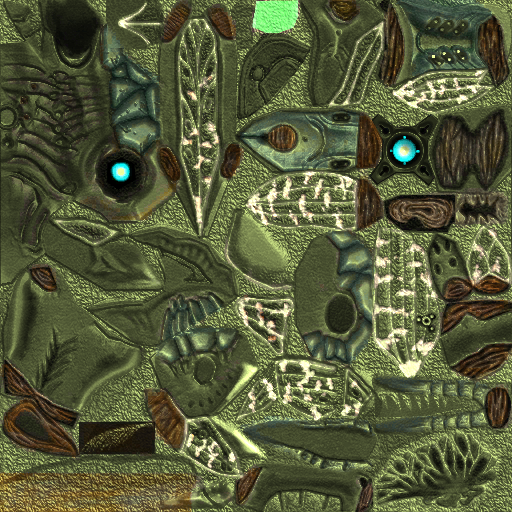
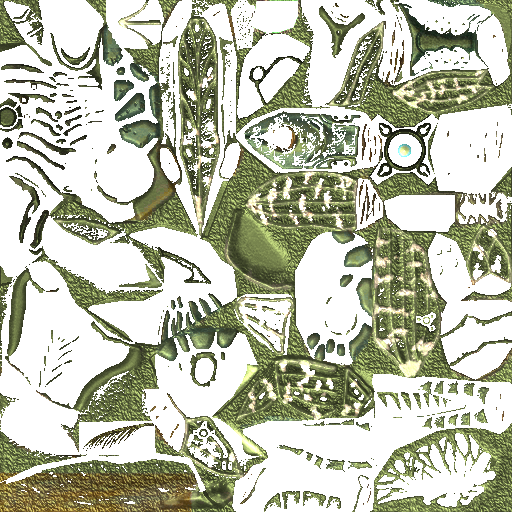
Drone antennae and Elite teeth cut out by their alpha
- extract_h2.py: the Drone antennae card keeps the bugger bitmap's alpha (alpha-tested), the colour still baked
- alpha_fix.py: Elite teeth take the CE 'elite teeth' bitmap's alpha and are two-sided; blood overlays masked to cut-out skins

Claude-Session: https://claude.ai/code/session_01Ja8vbkayn83DPTjJrhXLXZ

diff --git a/generator/alpha_fix.py b/generator/alpha_fix.py
@@ -1,0 +1,103 @@
+"""Alpha-tested teeth: the Elites' teeth cut out as Halo CE draws them -> out/models/<char>/
+
+    python3 alpha_fix.py [char ...]
+
+Halo CE draws its 'elite teeth' shader alpha-tested and two-sided: the teeth are
+cut out of a flat card by the bitmap's alpha, seen from both sides. extract_chars.py saves every skin as plain RGB, so
+the cards showed as solid rectangles. Here the teeth bitmaps (read from a Halo CE map) give their alpha, made crisp
+(UZDoom alpha-tests model skins), to the character's skin with the same picture, and the surfaces using that skin get
+their back faces. Re-running it changes nothing more. The blood-on-the-body textures over every cut-out skin (these, and the Drone's
+wings and antennae) are masked to the solid parts. Run after extract_chars.py, extract_h2.py and blood_kit.py.
+"""
+import os as _os, sys as _sys
+_sys.path.insert(0, _os.path.join(_os.path.dirname(_os.path.abspath(__file__)), 'lib'))   # readers and writers live in lib/
+import os, sys, json
+import numpy as np
+from PIL import Image
+HERE = os.path.dirname(os.path.abspath(__file__))
+sys.path.insert(0, HERE)
+from iqm import read_iqm, write_iqm
+try:
+    from extract_chars import OUT
+except Exception:
+    OUT = os.path.join(HERE, 'out')
+from hce_paths import MAPS_DIR as CE_MAPS     # Halo CE's maps (HCE_MAPS)
+CHARS = ('Elite', 'EliteSpecial', 'EliteRifle')
+TEETH = ('elite teeth',)
+
+
+def teeth_bitmaps():
+    from tags import HMap
+    from bitmaps import bitmap_image
+    from extract_chars import shader_maps
+    out = []
+    m = HMap(f'{CE_MAPS}/b30.map')
+    for t in m.tags:
+        if t['cls'] != 'soso' or not any(k in t['name'] for k in TEETH): continue
+        base, _, _ = shader_maps(m, {'id': t['id']})
+        im = bitmap_image(m, base) if base else None
+        if im is not None: out.append((t['name'], im.convert('RGBA')))
+    return out
+
+
+def main(chars):
+    bms = teeth_bitmaps()
+    for char in chars:
+        d = f'{OUT}/models/{char}'
+        if not os.path.isdir(d): continue
+        meta = json.load(open(f'{d}/{char}.json'))
+        fixed = []
+        for mat in sorted(set(meta.get('meshes', []))):
+            f = f'{d}/{mat}'
+            if not os.path.exists(f): continue
+            rgb = np.asarray(Image.open(f).convert('RGB')).astype(int)
+            for name, im in bms:
+                a = np.asarray(im)
+                if a.shape[:2] != rgb.shape[:2] or np.abs(a[..., :3].astype(int) - rgb).mean() > 2: continue
+                out = np.dstack([rgb.astype(np.uint8), np.where(a[..., 3] >= 128, 255, 0).astype(np.uint8)])
+                Image.fromarray(out, 'RGBA').save(f)
+                fixed.append(mat); break
+        if not fixed: print(char, 'no teeth skin'); continue
+        # two-sided: the back faces of the surfaces wearing it (once)
+        joints, meshes, anims = read_iqm(f'{d}/{char}.iqm')
+        n = 0
+        for m in meshes:
+            if m['material'] not in fixed: continue
+            t = m['tris']
+            back = t[:, [0, 2, 1]]
+            have = {tuple(sorted(x)) + (tuple(x),) for x in map(tuple, t)}
+            if any(tuple(sorted(x)) + (tuple(x),) in have for x in map(tuple, back)): continue      # already two-sided
+            m['tris'] = np.concatenate([t, back]); n += 1
+        if n:
+            alist = [dict(name=k, fps=30.0, loop=True, frames=[[(tuple(tt), tuple(q), tuple(s)) for tt, q, s in fr] for fr in anims[k]])
+                     for k in sorted(anims)]
+            meta['iqm_bytes'] = write_iqm(f'{d}/{char}.iqm', [(nm, p, tuple(tt), tuple(q), tuple(s)) for nm, p, tt, q, s in joints], meshes, alist)
+            json.dump(meta, open(f'{d}/{char}.json', 'w'), indent=1)
+        print(char, 'teeth skin', fixed, 'two-sided surfaces', n)
+
+
+def mask_blood(char):
+    """blood on the body (blood_kit.py) over a cut-out skin: only where the skin is solid (the Elite's teeth, the
+    Drone's wings and antennae), not on the card around it"""
+    d = f'{OUT}/models/{char}'
+    if not os.path.isdir(d): return
+    n = 0
+    for f in sorted(os.listdir(d)):
+        if not (f.startswith(char + '_') and f.endswith('.png')) or 'multi' in f: continue
+        im = Image.open(f'{d}/{f}')
+        if im.mode != 'RGBA': continue
+        a = np.asarray(im)[..., 3]
+        if a.min() == 255: continue
+        for k in (1, 2, 3):
+            bf = f'{d}/blood{k}_{f}'
+            if not os.path.exists(bf): continue
+            b = np.asarray(Image.open(bf).convert('RGBA')).copy()
+            m = np.asarray(Image.fromarray(a).resize(b.shape[1::-1], Image.NEAREST)) >= 128
+            b[..., 3] = np.where(m, b[..., 3], 0)
+            Image.fromarray(b, 'RGBA').save(bf); n += 1
+    if n: print(char, 'blood masked on', n, 'textures')
+
+
+if __name__ == '__main__':
+    main(sys.argv[1:] or CHARS)
+    for c in (sys.argv[1:] or CHARS) + ('Drone',): mask_blood(c)

diff --git a/generator/extract_h2.py b/generator/extract_h2.py
@@ -118,7 +118,11 @@ def drone_texture(m, kind):
     src = {'wings': 'bugger_wings'}.get(kind, 'bugger')
     im = mcc_bitmap(m, r'objects\characters\bugger\bitmaps' + '\\' + src, TEXTURES)
     if src == 'bugger':                  # alpha is a specular mask there: bake the shader's look into the colour
+        raw = im
         im = bake_bugger(im, mcc_bitmap(m, r'objects\characters\bugger\bitmaps\bugger_bump', TEXTURES))
+        if kind == 'antennae':           # ...except on the antennae's card, where the shader cuts the feathery antenna
+            a = np.asarray(raw.convert('RGBA'))[..., 3]   # out of it with that alpha (alpha-tested in UZDoom)
+            im = Image.fromarray(np.dstack([np.asarray(im.convert('RGB')), np.where(a >= 128, 255, 0).astype(np.uint8)]), 'RGBA')
     return im
 
 def drone_textures(pid='Drone'):

diff --git a/docs/PACK_README.md b/docs/PACK_README.md
@@ -531,7 +531,7 @@ uzdoom -file HDE_LocalDEV.pk3 HCE_EnemyAPI_LocalDEV.pk3 HaloCE_Core.pk3 HaloCE_C
 | `HCE_Drinol` | Map-placeable only (DoomEdNum 30400); it no longer replaces any Doom monster. Digsite's war beast (model, 76 animations and stats from its tags). Melee charger that swats and pounces with its `charging_jump`. In Halo it stands about 160 map units tall, so it is shrunk to 62% (99 tall, radius 34) to fit Doom corridors; health 320. Uses the new Drinol sounds from the voice pack: alert, melee, grave injury, death, extreme death, and sonic roar on the boss's charge. |
 | `HCE_BossCyberdemonDrinol` | **Boss: replaces every Cyberdemon** while the add-on is loaded. A bigger Drinol (78% scale, 110 tall, radius 40, health 1800) with three attacks. Its swats (~65) are slower than the small Drinol's. Its **charge** is a 22-speed stampede that steers a few degrees per tic, so you can side-step it; a hit does ~55 and bowls you over, and running into a wall staggers it. When it lands from a pounce it **slams** out a 260-unit shockwave that hurts and knocks back its enemies but spares its allies; jumping avoids it. It maps back to `Cyberdemon` (`CheckReplacee`), so boss-death map specials still fire. |
 | `HCE_Brute{Minor,Major,Captain,HonorGuard,Chieftain}…` | **Halo 2's Brutes**, ripped from MCC's `08b_deltacontrol.map` (voices from `08a_deltacliffs.map`): one 48-bone model with every rank's armour, 73 animations (including Tartarus's gravity-hammer stance), real textures, both voices (bloodthirsty and cruel) and their footsteps, thumps and body falls.<br>• **Ranks and loadouts** (looks from Halo 2's model variants, health from the rank tags; all hold their own guns in the rifle stance; a human gun they pick up goes in the rifle stance or, for the GPMG and flamethrower, Halo 2's Brute Shot stance):<br>&nbsp;&nbsp;– **Minor**: 175 health, olive fur, light armour (blue Halo 3 pieces, Halo 2's own helmet and shoulder plates, light King Hit pieces, sometimes bare-headed). Carries the **CE plasma rifle** (`HCE_BruteMinorPlasmaRifle`) or the **CE assault rifle** (`HCE_BruteMinorAssaultRifle`).<br>&nbsp;&nbsp;– **Major**: 150 health, reddish fur, medium armour (red Halo 3 pieces, King Hit crested and enclosed helmets; one in five wears the Halo 3 jump-pack suit). Carries the **Spiker** (`HCE_BruteMajorSpiker`), which fires HDE's own spikes in automatic bursts and drops HDE's Spiker, or the **CE shotgun** (`HCE_BruteMajorShotgun`), 15 pellets a shot.<br>&nbsp;&nbsp;– **Captain**: 200 health, grey fur, the flag pack and heavy armour (gold Halo 3 pieces, King Hit bighorn, heavy and chain-mail helmets, heavy chest plates and leg armour). Carries the CE plasma rifle, the CE shotgun or the **Plasma Caster** (`HCE_BruteCaptainPlasmaCaster`, 30453): HaloDoom Evolved's own (Halo Infinite's), reinterpreted as a low-poly Halo CE Covenant gun in flat colours (a muted dark purple housing and front pod, a dark gunmetal receiver, grip, stock and drum, a silver cone in the pod, cyan lights and a red Banished glyph), lobbing HDE's Plasma Caster shots with a charged three-shot cluster, and dropping HDE's Plasma Caster.<br>&nbsp;&nbsp;– **Honor Guard**: 150 health (Halo 2's Honor Guard inherits the Major's stats), the red ceremonial armour. Carries the CE plasma rifle or the CE assault rifle.<br>&nbsp;&nbsp;Each gun is the real model in the Brute's hand: the CE weapons and the Spiker (a community CE port of Halo 3's). Each drops its HDE pickup.<br>• **Brute Chieftain** (`HCE_BruteChieftainGravityHammer`), a custom rank:<br>&nbsp;&nbsp;– **Look:** half of them wear Tartarus's crested white mohawk and helmet, his grey fur and gold armour, and the elite-skull trophy pauldron. The rest wear one of two kit sets: the Halo 3 Chieftain suit (bronze) or the orange-trimmed King Hit chieftain helmet, leg and bracer set.<br>&nbsp;&nbsp;– **Weapon and animations:** Halo 2's gravity hammer, held two-handed with Tartarus's own hammer animations (idles, moves, three swings, two side smashes, leap, berserk hammer run and swings).<br>&nbsp;&nbsp;– **Stats:** 350 health and a 150-point shield (Tartarus's 1000-point overshield, cut down so it can be broken). It is melee only, with no grenades.<br>&nbsp;&nbsp;– **Attacks:** it leaps at targets 150–400 units away at Tartarus's 50% leap chance. Every hammer swing (about 70) and every leap landing sets off a **gravity shockwave**: HDE's hammer blast effect, 10–35 damage within 150 units, knocking things back and sparing other Covenant. It keeps the hammer when berserk and drops HDE's gravity hammer when killed.<br>• **Combat:** strafing, dives and evades, plasma grenades (10% a second, 3–20 unit range, 6 s apart, carrying 1–2, all from the tag), heavy melee (about 35), cheer, taunt and point animations.<br>• **Berserk:** when badly hurt, or when its pack is wiped out (the last Brute nearby always goes, others 35% of the time), it roars and thumps its chest, **throws its gun away** (the pickup lands nearby), then charges on all fours with five swings and two tackles.<br>• **Armour kit:** every Minor, Major and Captain rolls its own armour when it spawns, one piece (or nothing) per slot: helmet, chest, shoulders, arms, legs and waist. The pieces come from the h2_brute armour set: the King Hit pieces (four material tiers), Halo 3-style pieces tinted per rank, and Halo 2's own helmet, shoulder plates and bandolier. 48 pieces in all, each drawn as a model attachment that moves with the Brute's bones.<br>• **Helmets:** a headshot knocks a Minor's, Major's or Captain's helmet off, whichever helmet it wears, and it bounces away as debris. A Brute that spawned bare-headed can be headshot from the first hit. Honor Guard and Chieftain helmets stay on.<br>Scaled to 115%, so a Brute towers a head and more over an Elite (its rifle idle is 0.90 world units at full size against the Elite's 0.80), and moves a little faster to match its stride; collision 76 tall, radius 30, so they still fit Doom doors. DoomEdNums 30422–30430, `HCE_RandomBrute` 30431, the Plasma Caster Captain 30453. |
-| `HCE_DronePlasmaPistol` | **Halo 2's Drone** (Yanme'e), ripped from MCC's `01b_spacestation.map` (Cairo Station): model, 32-bone skeleton, 36 animations (flight idle and four-way flight, wall perching, take-off/landing, fire, flinches, falling deaths) its real textures (from MCC's `textures.dat`, with the Drone shader's look baked in: the bump map's relief, the olive-green shell and its glossy olive-gold sheen, see-through wings) and 219 sounds: 149 dialogue lines from `sounds_en.dat`, plus its wing buzz, wing whooshes, wall-cling, claw and body-fall effects from `sounds_neutral.dat` (Halo 2 MCC stores them as raw Opus; the tools wrap them as Ogg). It holds a one-handed Covenant gun in its claw (see below), has 30 health and no shield (from its Halo 2 character tag), and is 48 tall with radius 22. Behaviour:<br>• **Darting flight:** swarm-style zig-zags above its target at changing heights, firing plasma pistol bursts.<br>• **Dodges:** when hit there's a 50% chance it darts sideways, at most every 4 s (its tag's evasion values).<br>• **Wall perching:** it flies to a nearby wall and clings with its back to it, firing from there (3–6 s in combat, 8–20 s when idle), and leaves early if you get within 96 units.<br>• **Swarm scatter:** when a drone dies, others within 400 units scatter in panic.<br>• **Falling death:** it falls out of the air and lands dead.<br>• **Sounds:** its wings buzz while it flies, it whooshes on dodges and darts, clicks when it grabs a wall, and thuds when it lands dead.<br>**Weapons:** the plasma pistol (`HCE_DronePlasmaPistol`, 30420), the **needler** (`HCE_DroneNeedler`, 30438), the CE **plasma rifle** (`HCE_DronePlasmaRifle`, 30439) and the **Spiker** (`HCE_DroneSpiker`, 30440), each dropping its HDE pickup. Cacodemons and Lost Souls become a mix of all four, mostly pistols and needlers; `HCE_RandomDrone` (30421) picks any. |
+| `HCE_DronePlasmaPistol` | **Halo 2's Drone** (Yanme'e), ripped from MCC's `01b_spacestation.map` (Cairo Station): model, 32-bone skeleton, 36 animations (flight idle and four-way flight, wall perching, take-off/landing, fire, flinches, falling deaths) its real textures (from MCC's `textures.dat`, with the Drone shader's look baked in: the bump map's relief, the olive-green shell and its glossy olive-gold sheen, see-through wings) and 219 sounds: 149 dialogue lines from `sounds_en.dat`, plus its wing buzz, wing whooshes, wall-cling, claw and body-fall effects from `sounds_neutral.dat` (Halo 2 MCC stores them as raw Opus; the tools wrap them as Ogg). It holds a one-handed Covenant gun in its claw (see below), has 30 health and no shield (from its Halo 2 character tag), and is 48 tall with radius 22. Behaviour:<br>• **Darting flight:** swarm-style zig-zags above its target at changing heights, firing plasma pistol bursts.<br>• **Dodges:** when hit there's a 50% chance it darts sideways, at most every 4 s (its tag's evasion values).<br>• **Wall perching:** it flies to a nearby wall and clings with its back to it, firing from there (3–6 s in combat, 8–20 s when idle), and leaves early if you get within 96 units.<br>• **Swarm scatter:** when a drone dies, others within 400 units scatter in panic.<br>• **Falling death:** it falls out of the air and lands dead.<br>• **Sounds:** its wings buzz while it flies, it whooshes on dodges and darts, clicks when it grabs a wall, and thuds when it lands dead.<br>**Weapons:** the plasma pistol (`HCE_DronePlasmaPistol`, 30420), the **needler** (`HCE_DroneNeedler`, 30438), the CE **plasma rifle** (`HCE_DronePlasmaRifle`, 30439) and the **Spiker** (`HCE_DroneSpiker`, 30440), each dropping its HDE pickup. Cacodemons and Lost Souls become a mix of all four, mostly pistols and needlers; `HCE_RandomDrone` (30421) picks any. The antennae are cut out of their card by the shader's alpha, as Halo 2 draws them. |
 | `HCE_Engineer` | The Engineer from Halo CE Ruby's Rebalance, extracted from SPV3's b30 map (model, texture, 25 animations, health, dialogue). **Replaces every Pain Elemental** while the add-on is loaded; without it, Pain Elementals become Flood Carriers if the Flood pack is loaded. It carries **no weapon and never fights**: it treats nothing as an enemy, even whoever shoots it, and just drifts around, sometimes pausing in mid-air. It's a support unit rather than a combatant.<br>• **Overshields (Halo 3's Engineer ability):** every second it overshields the allies within 420 units that are fighting and in its sight, with a pink tether to each.<br>&nbsp;&nbsp;– Shielded allies are topped up 20% of their maximum a second, up to 1.5× their maximum.<br>&nbsp;&nbsp;– Unshielded allies (Grunts, Jackals, Hunters) get a small 40-point shield of their own (scaled by `hce_nerf_shields`).<br>&nbsp;&nbsp;– Out of its reach for 4 s, or when it dies, the gift goes away: overshields drop back to their maximum and given shields vanish.<br>&nbsp;&nbsp;– It drifts toward the fight, keeping 200–300 units from the ally it's shielding.<br>&nbsp;&nbsp;– In testing, a Grunt next to it got a 20-point shield and an Elite went to 60 of 50. **Kill the Engineer first.** It's still tough to pop (150 body plus a 200 recharging shield), and **when it dies it bursts and sprays 4–6 charged Plasma Caster shots** (HDE's `PlasmaCasterClusterProj`). Each one sticks to what it hits, arms for two seconds, then explodes and throws two mini-bolts, so don't kill it next to yourself. Its dialogue (idle, surprise, pain) and explosion sound come from the map. 70 tall, radius 26 (1.25× scale). Was `HCE_EngineerMajorPlasmaPistol`; same DoomEdNum, 30418. |
 | `HCE_ThornBeast` | The Thorn Beast, created by SOI_7, extracted from SPV3's a30 map: a slow, tough melee brute in the Hell Knight mix. It has health 350 and heavy swipes of about 45, and walks at speed 6 (its animation stride is 4.3). Shrunk to 70% (67 tall, radius 36). It plays its own sounds from the map: idle growls as alert and taunt, melee roars, minor and major pain, death, and footsteps while it walks. |
 | `HCE_Elite{Minor,Major,Specops,Commander}PulseCarbine` | The same Elite ranks with a **blue Pulse Carbine** (the CMT carbine re-tinted blue, with blue lights) that fires like HDE's Pulse Carbine: bursts of 3–5 slow, accelerating plasma bolts (8 base damage each) that home on the Elite's target. They never re-target onto allies. They drop HDE's Pulse Carbine. |

diff --git a/generator/README.md b/generator/README.md
@@ -67,6 +67,7 @@ for f in core covenant flood sentinels marines; do (cd factions/$f && zip -r9 ..
 | `marine_stances.py` | Halo 2's Marine launcher stance (`h2missile`: `h2_elite_anims.H2MISSILE` plus the melee and reload laid over the idle) onto both Marine bodies; the rocket launcher, Hydra and fuel rod Marines use it. Run after `reload_anims.py` |
 | `brute_stance.py` | Halo 2's Brute Shot stance (`combat:support:*` from `08b_deltacontrol.map`, the `bs:grip` held over every frame, the firing overlay baked onto the idle) added to the Brute's IQM as `stand support ...`; Brutes carrying the GPMG or flamethrower use it. Run after `extract_h2_brute.py` and the gore, blood and overlay steps, before `marine_arsenal.py overlays` |
 | `jaw_weights.py` | A clean hinge for the Marines' jaw (`bip01 ponytail1`): Halo CE's weights hang the nose, upper lip and brow partly on it, so lip-sync dragged the whole face. Each face's mouth line is found on its own geometry; above it goes to the head, the lower lip and chin to the jaw. `extract_chars.py` calls it; it can also be run on its own on the built IQMs |
+| `alpha_fix.py` | The Elites' teeth alpha-tested and two-sided as Halo CE draws them ('elite teeth' shader: the bitmap's alpha, from a CE map), and the blood-on-the-body textures over every cut-out skin (the teeth, the Drone's wings and antennae) masked to the solid parts. Run after `extract_chars.py`, `extract_h2.py` and `blood_kit.py` |
 | `extract_h2_grunt.py` | Extra Crazy Grunt dialogue from Halo 2's `grunt_crazy` set in `08a_deltacliffs.map` (same `HCE_H2_MAP08` / `HCE_H2_SOUNDS` settings as the Brutes): fills the events the Crazy set is short on, skipping lines it already has (`HCE_VOICE_SRC`). Writes `voice_extra/Grunt_Crazy/`, which `build_voices.py` adds on top of the main source |
 | `extract_marine_voices.py` | Marine dialogue: Halo CE's Marine voices (aussie, bisenti, fitzgerald, mendoza, the sergeant Johnson and the second sergeant: `sound\\dialog\\marines\\*`, `sargeant`, `sarge2` in the campaign maps) and Halo 2's from `01b_spacestation.map` + `sounds_en.dat` (`marine_*`, `sgt_*`; the female `marine_sassy` and `marine_tough` left out: the two Halo 2's `marine_female` biped uses), up to six lines per event from each game, into `voice_extra/Marine_<Name>/`; CE's and Halo 2's Aussie and Johnson are merged. `build_pack.py` gives Marines a random face (`extract_chars.MULTI_PERMS`) and a random voice, Johnson's face always Johnson's voice |
 | `extract_elite_loose.py` | The Loose Elite dialogue set: Halo CE's Elite dialogue from the campaign maps (`HCE_MAPS`), plus Halo 2's `elite_loose` lines from `08a_deltacliffs.map` (`HCE_H2_MAP08` / `HCE_H2_SOUNDS`) played backwards, the way CE's Elites speak. Writes `voice_extra/Elite_Loose/` with a `REPLACE` marker, so `build_voices.py` uses it instead of the main source's Loose set |
